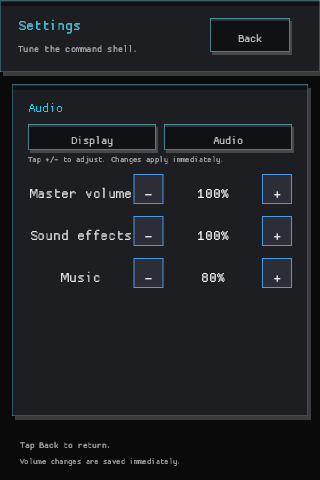
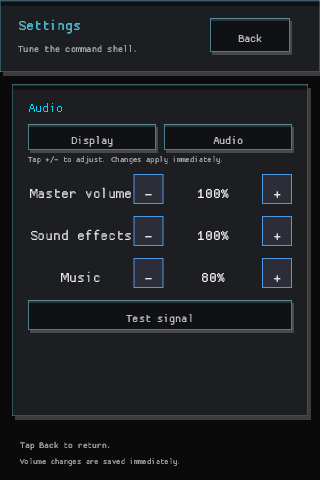
The swarm tests its signal before it leaves the pad (audio preview, GDD 5)
The Audio tab exposed volume controls but offered no immediate confirmation that the selected mix was audible. Added a touch-sized Test signal action that queues the existing UiConfirm cue, preserving browser gesture gating and keeping settings decoupled from playback. Updated the audio notes, README, and desktop and phone verification captures.

Changed region(s): [[0.0938, 0.6562, 0.9062, 0.7188], [0.9062, 0.625, 0.9375, 0.6875], [0.0625, 0.625, 0.0938, 0.6875]]

diff --git a/src/screens/settings_menu.rs b/src/screens/settings_menu.rs
@@ -9,6 +9,7 @@ use macroquad_toolkit::ui::{draw_ui_text, stepper_row, toggle_row, truncate_text
 pub enum SettingsAction {
     None,
     Back,
+    PreviewAudio,
 }
 
 #[derive(Debug, Clone, Copy, PartialEq, Eq)]
@@ -87,7 +88,9 @@ pub fn render_settings_menu(
             draw_display_settings(settings, display_x, panel_y, row_w, row_h, row_gap)
         }
         SettingsTab::Audio => {
-            draw_audio_settings(settings, display_x, panel_y, row_w, row_h, row_gap)
+            if draw_audio_settings(settings, display_x, panel_y, row_w, row_h, row_gap) {
+                return SettingsAction::PreviewAudio;
+            }
         }
     }
 
@@ -224,7 +227,7 @@ fn draw_audio_settings(
     row_w: f32,
     row_h: f32,
     row_gap: f32,
-) {
+) -> bool {
     draw_ui_text(
         "Tap +/- to adjust. Changes apply immediately.",
         display_x + 16.0,
@@ -253,6 +256,9 @@ fn draw_audio_settings(
         "Music",
         &mut settings.music_volume,
     );
+
+    let test_y = content_y + (row_h + row_gap) * 3.0;
+    draw_button_sized(display_x + 16.0, test_y, row_w, row_h, "Test signal")
 }
 
 fn adjust_volume_row(rect: Rect, label: &str, volume: &mut f32) {

diff --git a/src/main/update.rs b/src/main/update.rs
@@ -97,8 +97,13 @@ impl Game {
             display::apply_display_settings(&self.settings, Some(&before));
             let _ = self.settings.save(GAME_NAME);
         }
-        if action == SettingsAction::Back {
-            self.phase = GamePhase::MainMenu;
+        match action {
+            SettingsAction::Back => self.phase = GamePhase::MainMenu,
+            SettingsAction::PreviewAudio => self
+                .campaign
+                .current_mut()
+                .emit_audio(state::AudioEvent::UiConfirm),
+            SettingsAction::None => {}
         }
     }
 

diff --git a/docs/AUDIO.md b/docs/AUDIO.md
@@ -15,3 +15,8 @@ effective SFX/music volumes independent of the backend.
 Browser audio begins after a user gesture. The menu and gameplay buttons are
 the safe activation points; `GameAudio` defers playback until that gesture
 rather than starting audio during `Game::new`.
+
+The Audio tab in Settings exposes master, SFX, and music volume steppers plus
+a `Test signal` button. The preview uses the same `UiConfirm` event as other
+interface confirmations, so it verifies the active volume without coupling
+the settings view directly to the audio backend.

diff --git a/README.md b/README.md
@@ -72,6 +72,8 @@ and Shipping into touch-sized tabs, with the freight controls scrollable below.
 The title and Settings screens also switch to single-column phone layouts so
 the command stack, display toggles, audio controls, and pause-key control
 remain on-screen.
+The Audio tab includes a visible Test signal control for checking the current
+volume mix without entering a campaign.
 The mobile FLOW ledger and Factory Deck use exclusive, full-width overlays;
 HELP reserves the command bar so diagnostics and recovery controls stay clear.
 
